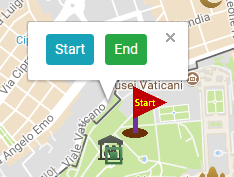
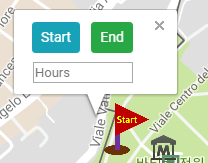
Enabled the user to input the time (Length is automatically adjusted)

diff --git a/src/wheretogonow/static/renderer.js b/src/wheretogonow/static/renderer.js
@@ -29,6 +29,7 @@ class Renderer {
         this.currentInfoWindow = null;
         this.currentStartMarker = null;
         this.currentEndMarker = null;
+        this.currentTime = 24;
         this.spotMarkers = [];
 
         // draw the markers on the map at start
@@ -88,6 +89,10 @@ class Renderer {
                         data-lng="` + event.latLng.lng() + `">
                     End
                     </button>
+                    <br/>
+                    <input type="number" id="input-time" placeholder="Hours"
+                           style="width: 100px; margin-top: 5px; margin-left: 5px;">
+                    </input>
                 </div>`
             });
 
@@ -131,8 +136,19 @@ class Renderer {
 
                         this.currentStartMarker = marker;
 
-                        console.log('Start: ' + marker.getPosition().lat()
-                            + ', ' + marker.getPosition().lng());
+                        var time = parseInt(infoDom.find('#input-time').val());
+
+                        if (isNaN(time)) {
+                            this.currentTime = 24;
+                        } else {
+                            this.currentTime = time;
+                        }
+
+                        console.log(
+                            'Start: ' + marker.getPosition().lat()
+                            + ', ' + marker.getPosition().lng()
+                            + ', Time: ' + this.currentTime
+                        );
                     });
                 });
 
@@ -161,8 +177,19 @@ class Renderer {
 
                         this.currentEndMarker = marker;
 
-                        console.log('End: ' + marker.getPosition().lat()
-                            + ', ' + marker.getPosition().lng());
+                        var time = parseInt(infoDom.find('#input-time').val());
+
+                        if (isNaN(time)) {
+                            this.currentTime = 24;
+                        } else {
+                            this.currentTime = time;
+                        }
+
+                        console.log(
+                            'End: ' + marker.getPosition().lat()
+                            + ', ' + marker.getPosition().lng()
+                            + ', Time: ' + this.currentTime
+                        );
                     });
                 });
             })

diff --git a/src/wheretogonow/static/routeviewer.js b/src/wheretogonow/static/routeviewer.js
@@ -55,7 +55,8 @@ class RouteViewer {
                         'end': {
                             'lat': this.renderer.currentEndMarker.getPosition().lat(),
                             'lng': this.renderer.currentEndMarker.getPosition().lng()
-                        }
+                        },
+                        'time': this.renderer.currentTime
                     }),
                     success: (data) => {
                         this.updateRoutes(data);

diff --git a/src/wheretogonow/templates/index.html b/src/wheretogonow/templates/index.html
@@ -258,7 +258,7 @@
     <div class="panel help inner">
         <ul>
             <li>
-                Click the map to mark where you will start / end your trip.
+                Click the map to mark where you will start / end your trip, and type the max. hours.
                 <br/>
                 <img src="{{url_for('static', filename='data/ex-start.png')}}" style="width: 150px;">
             </li>

diff --git a/src/wheretogonow/controllers.py b/src/wheretogonow/controllers.py
@@ -1,4 +1,5 @@
 import json
+import math
 
 from flask import render_template, request
 from flask_login import login_user, logout_user
@@ -24,16 +25,22 @@ def respond_update():
 
     loc_start = request.json['start']
     loc_end = request.json['end']
+    time_max = request.json['time']
     print('>> Start: %s' % loc_start)
     print('>> End: %s' % loc_end)
+    print('>> Time: %d' % time_max)
 
+    # Since we gave some weight to the time between
+    # the starting / ending point and each spot,
+    # we have to set time_max to (what we want) + (a few more hours)
+    # (Currently: 24 + 6)
     data_routes = route_generator.generate_route(
         lat_start=loc_start['lat'],
         lng_start=loc_start['lng'],
         lat_end=loc_end['lat'],
         lng_end=loc_end['lng'],
-        length_max=6 + 1,
-        time_max=24 + 6
+        length_max=6 * int(math.ceil(time_max / 24.0)),
+        time_max=time_max + 6
     )
 
     print('>> Found %d routes' % len(data_routes))
